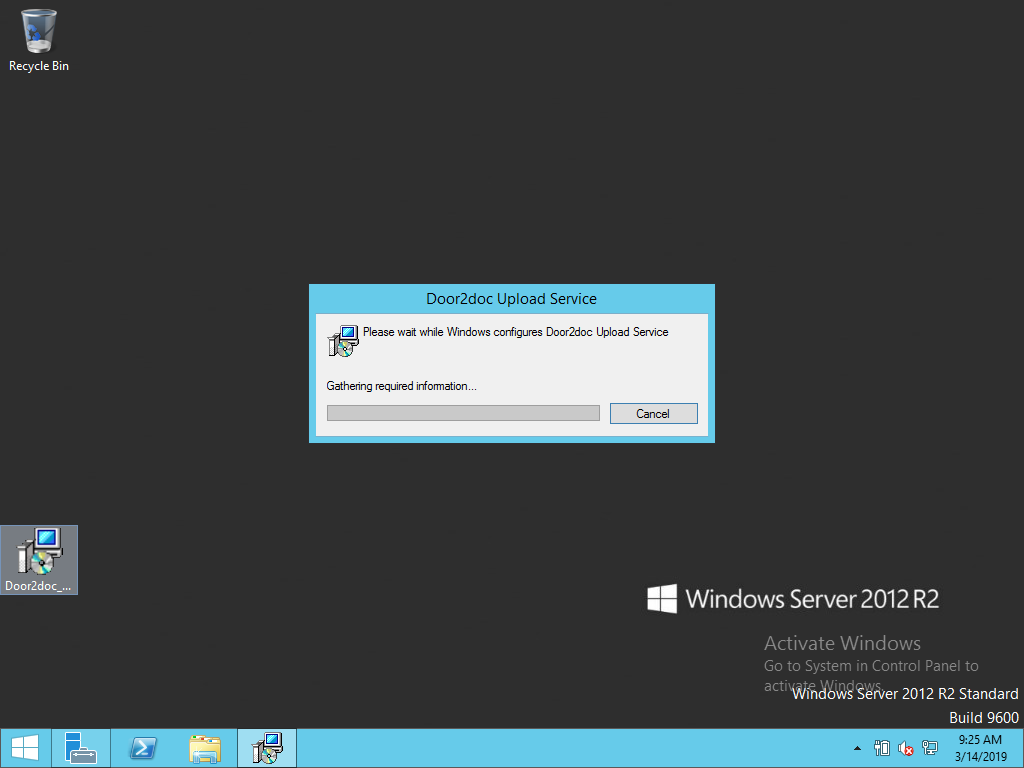
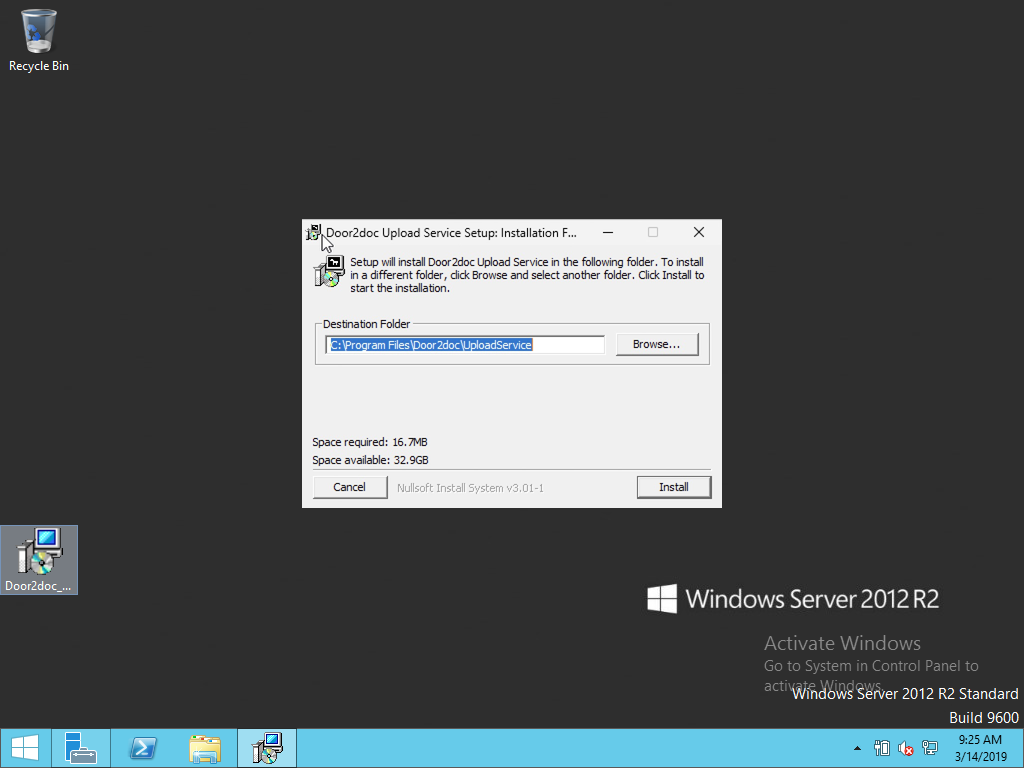
Update handleiding (#6)

Changed region(s): [[0.2812, 0.2812, 0.7188, 0.6875]]

diff --git a/doc/handleiding.md b/doc/handleiding.md
@@ -41,11 +41,17 @@ De software wordt geleverd als `.exe` bestand.
 
 ## Installatie 
 
-Installatie vindt plaats door een dubbelklik op het `.exe` bestand:
+Installatie vindt plaats door een dubbelklik op het `.exe` bestand. Kies de installatiemap
+(standaard `C:\Program Files\Door2doc\UploadService`) en klik op *Install*. Bij een upgrade
+staat de map van de vorige installatie al ingevuld.
 
-![Installatie van Dock](install-software-1.png){width=400px}\   
+![Installatiemap kiezen](install-software-1.png){width=400px}\ 
 
-Dit moet in enkele seconden afgerond zijn. U kunt de installatie verifiëren via Administrative Tools > Services. 
+Dit moet in enkele seconden afgerond zijn. Klik daarna op *Close*.
+
+![Installatie afgerond](install-software-2.png){width=400px}\ 
+
+U kunt de installatie verifiëren via Administrative Tools > Services. 
 Hier is nu de service Door2doc Upload Service te zien in de status Running. 
 
 ![Services overzicht](running-service.png){width=400px}\ 
